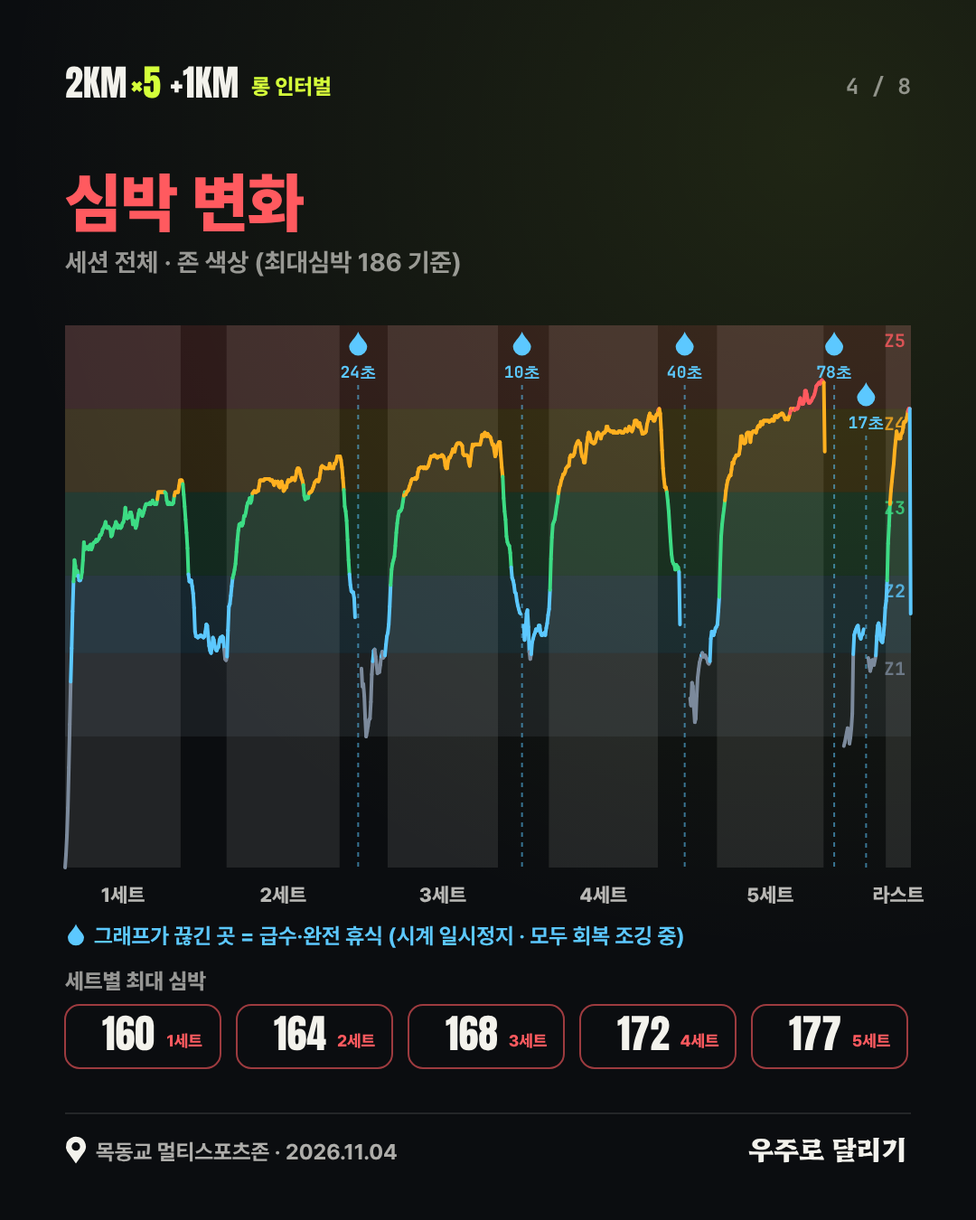
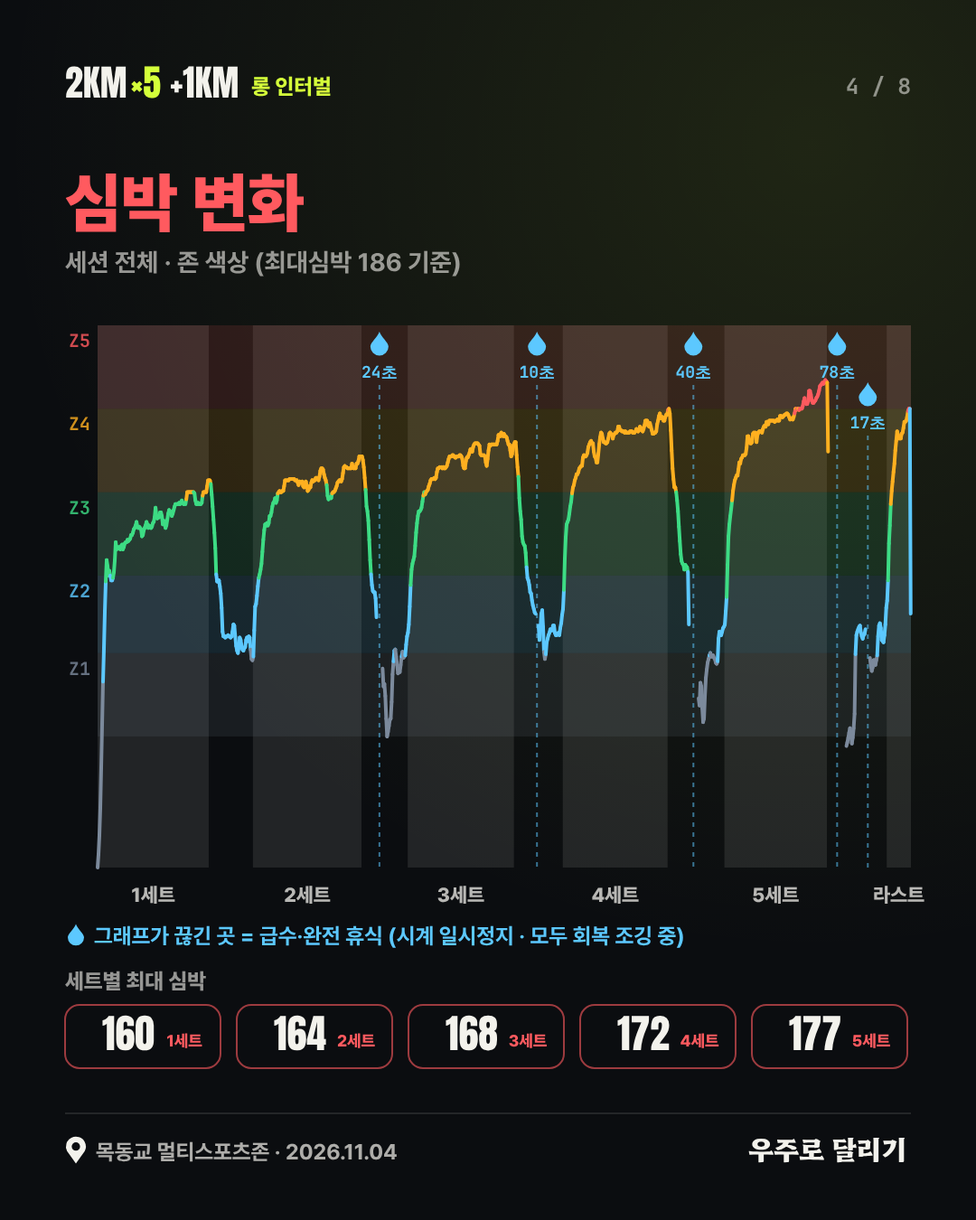
Finalize instagram-training-feed skill and card review fixes
- SKILL.md rewritten to reflect every confirmed rule (wording, ranges, no punctuation,
  pauses, recovery averages, card layouts, logotype, profile crop, workflow)
- Template synced with the latest scene/cards/render code; caption example added
- Cards: unified ~ range separator, HR zone labels moved outside the graph

Claude-Session: https://claude.ai/code/session_014Y6EAQ8ssYscUPsXE8Frp2

diff --git a/.claude/skills/instagram-training-feed/template/cards.js b/.claude/skills/instagram-training-feed/template/cards.js
@@ -211,7 +211,7 @@ const FEED_CARDS = [
       txt(r.d, cols[1], y, { size: 34, fam: NUM, weight: 400, alpha: .85 });
       txt(fmtPace(r.p), cols[2], y + 4, { size: 50, fam: NUM, weight: 400, color: last ? C.lime : C.white });
       circle(cols[3] + 16, y - 10, 16, { fill: C.lime }); check(cols[3] + 16, y - 10, 16, 1);
-      txt(`${fmtPace(r.lo)}–${fmtPace(r.hi)}`, cols[3] + 42, y, { size: 24, fam: MONO, weight: 700, alpha: .8 });
+      txt(`${fmtPace(r.lo)}~${fmtPace(r.hi)}`, cols[3] + 42, y, { size: 24, fam: MONO, weight: 700, alpha: .8 });
       txt(`${r.hr} / ${r.mx}`, cols[4], y, { size: 34, fam: NUM, weight: 400, color: C.white });
       const tot = r.z.reduce((a, c) => a + c, 0);
       txt(`${Math.round((r.z[3] + r.z[4]) / tot * 100)}%`, W - 72, y, { size: 34, fam: NUM, weight: 400, color: ZC[3], align: 'right' });
@@ -221,12 +221,12 @@ const FEED_CARDS = [
   // 4. 심박 변화 그래프
   ['04-hr-trend', () => {
     cardFrame(4, '심박 변화', '세션 전체 · 존 색상 (최대심박 186 기준)', C.coral);
-    const gx = 72, gy = 360, gw = W - 144, gh = 600, T = 3593, X = s => gx + gw * s / T;
+    const gx = 108, gy = 360, gw = W - 180, gh = 600, T = 3593, X = s => gx + gw * s / T;
     REPWIN.concat([FINALWIN]).forEach(([a, c], i) => {
       ctx.save(); ctx.globalAlpha = .1; ctx.fillStyle = C.white; ctx.fillRect(X(a), gy, X(c) - X(a), gh); ctx.restore();
       txt(i < 5 ? `${i + 1}세트` : '라스트', (X(a) + X(c)) / 2, gy + gh + 38, { size: 22, weight: 800, align: 'center', alpha: .75 });
     });
-    hrGraph(gx, gy, gw, gh, 0, T, 1, { lo: 95, hi: 186, band: .13, zoneLabels: true, lw: 4 });
+    hrGraph(gx, gy, gw, gh, 0, T, 1, { lo: 95, hi: 186, band: .13, zoneLabels: true, zoneLeft: true, lw: 4 });
     pauseMarks(X, gy, gh);
     drop(84, 1036, 9, C.sky);
     txt('그래프가 끊긴 곳 = 급수·완전 휴식 (시계 일시정지 · 모두 회복 조깅 중)', 104, 1044, { size: 24, weight: 700, color: C.sky });
@@ -278,7 +278,7 @@ const FEED_CARDS = [
     txt('m', W - 112, 1030, { size: 44, weight: 900, color: C.lime, align: 'right' });
     txt('520', W - 112 - mW - 6, 1030, { size: 130, fam: NUM, weight: 400, align: 'right' });
     txt('약', W - 112 - mW - 12 - measure('520', 130, 400, NUM) - 6, 1030, { size: 40, weight: 900, align: 'right' });
-    txt(`목표 ${fmtPace(215)}–${fmtPace(220)}보다 8초 빠르게 · 평균 심박 164`, 112, 1150, { size: 28, weight: 800, alpha: .8 });
+    txt(`목표 ${fmtPace(215)}~${fmtPace(220)}보다 8초 빠르게 · 평균 심박 164`, 112, 1150, { size: 28, weight: 800, alpha: .8 });
   }],
   // 7. 러닝 다이내믹스 & 훈련 효과
   ['07-dynamics', () => {

diff --git a/run-review/cards.js b/run-review/cards.js
@@ -211,7 +211,7 @@ const FEED_CARDS = [
       txt(r.d, cols[1], y, { size: 34, fam: NUM, weight: 400, alpha: .85 });
       txt(fmtPace(r.p), cols[2], y + 4, { size: 50, fam: NUM, weight: 400, color: last ? C.lime : C.white });
       circle(cols[3] + 16, y - 10, 16, { fill: C.lime }); check(cols[3] + 16, y - 10, 16, 1);
-      txt(`${fmtPace(r.lo)}–${fmtPace(r.hi)}`, cols[3] + 42, y, { size: 24, fam: MONO, weight: 700, alpha: .8 });
+      txt(`${fmtPace(r.lo)}~${fmtPace(r.hi)}`, cols[3] + 42, y, { size: 24, fam: MONO, weight: 700, alpha: .8 });
       txt(`${r.hr} / ${r.mx}`, cols[4], y, { size: 34, fam: NUM, weight: 400, color: C.white });
       const tot = r.z.reduce((a, c) => a + c, 0);
       txt(`${Math.round((r.z[3] + r.z[4]) / tot * 100)}%`, W - 72, y, { size: 34, fam: NUM, weight: 400, color: ZC[3], align: 'right' });
@@ -221,12 +221,12 @@ const FEED_CARDS = [
   // 4. 심박 변화 그래프
   ['04-hr-trend', () => {
     cardFrame(4, '심박 변화', '세션 전체 · 존 색상 (최대심박 186 기준)', C.coral);
-    const gx = 72, gy = 360, gw = W - 144, gh = 600, T = 3593, X = s => gx + gw * s / T;
+    const gx = 108, gy = 360, gw = W - 180, gh = 600, T = 3593, X = s => gx + gw * s / T;
     REPWIN.concat([FINALWIN]).forEach(([a, c], i) => {
       ctx.save(); ctx.globalAlpha = .1; ctx.fillStyle = C.white; ctx.fillRect(X(a), gy, X(c) - X(a), gh); ctx.restore();
       txt(i < 5 ? `${i + 1}세트` : '라스트', (X(a) + X(c)) / 2, gy + gh + 38, { size: 22, weight: 800, align: 'center', alpha: .75 });
     });
-    hrGraph(gx, gy, gw, gh, 0, T, 1, { lo: 95, hi: 186, band: .13, zoneLabels: true, lw: 4 });
+    hrGraph(gx, gy, gw, gh, 0, T, 1, { lo: 95, hi: 186, band: .13, zoneLabels: true, zoneLeft: true, lw: 4 });
     pauseMarks(X, gy, gh);
     drop(84, 1036, 9, C.sky);
     txt('그래프가 끊긴 곳 = 급수·완전 휴식 (시계 일시정지 · 모두 회복 조깅 중)', 104, 1044, { size: 24, weight: 700, color: C.sky });
@@ -278,7 +278,7 @@ const FEED_CARDS = [
     txt('m', W - 112, 1030, { size: 44, weight: 900, color: C.lime, align: 'right' });
     txt('520', W - 112 - mW - 6, 1030, { size: 130, fam: NUM, weight: 400, align: 'right' });
     txt('약', W - 112 - mW - 12 - measure('520', 130, 400, NUM) - 6, 1030, { size: 40, weight: 900, align: 'right' });
-    txt(`목표 ${fmtPace(215)}–${fmtPace(220)}보다 8초 빠르게 · 평균 심박 164`, 112, 1150, { size: 28, weight: 800, alpha: .8 });
+    txt(`목표 ${fmtPace(215)}~${fmtPace(220)}보다 8초 빠르게 · 평균 심박 164`, 112, 1150, { size: 28, weight: 800, alpha: .8 });
   }],
   // 7. 러닝 다이내믹스 & 훈련 효과
   ['07-dynamics', () => {

diff --git a/.claude/skills/instagram-training-feed/template/scene.js b/.claude/skills/instagram-training-feed/template/scene.js
@@ -295,7 +295,7 @@ function hrGraph(x, y, w, h, t0s, t1s, u, o = {}) {
   for (let i = 0; i < 5; i++) {
     const a = Math.max(ZB[i], lo), c = Math.min(ZB[i + 1], hi); if (c <= a) continue;
     ctx.save(); ctx.globalAlpha = (o.band == null ? .1 : o.band); ctx.fillStyle = ZC[i]; ctx.fillRect(x, Y(c), w, Y(a) - Y(c)); ctx.restore();
-    if (o.zoneLabels) txt(`Z${i + 1}`, x + w - 6, Y(c) + 24, { size: 20, fam: MONO, weight: 700, color: ZC[i], align: 'right', alpha: .8 });
+    if (o.zoneLabels) { const lx = o.zoneLeft ? x - 8 : x + w - 6; txt(`Z${i + 1}`, lx, Y(c) + 24, { size: 20, fam: MONO, weight: 700, color: ZC[i], align: 'right', alpha: .8 }); }
   }
   const pts = SERIES.filter(p => p[0] >= t0s && p[0] <= t1s);
   const n = Math.floor(pts.length * u); if (n < 2) return null;

diff --git a/run-review/scene.js b/run-review/scene.js
@@ -295,7 +295,7 @@ function hrGraph(x, y, w, h, t0s, t1s, u, o = {}) {
   for (let i = 0; i < 5; i++) {
     const a = Math.max(ZB[i], lo), c = Math.min(ZB[i + 1], hi); if (c <= a) continue;
     ctx.save(); ctx.globalAlpha = (o.band == null ? .1 : o.band); ctx.fillStyle = ZC[i]; ctx.fillRect(x, Y(c), w, Y(a) - Y(c)); ctx.restore();
-    if (o.zoneLabels) txt(`Z${i + 1}`, x + w - 6, Y(c) + 24, { size: 20, fam: MONO, weight: 700, color: ZC[i], align: 'right', alpha: .8 });
+    if (o.zoneLabels) { const lx = o.zoneLeft ? x - 8 : x + w - 6; txt(`Z${i + 1}`, lx, Y(c) + 24, { size: 20, fam: MONO, weight: 700, color: ZC[i], align: 'right', alpha: .8 }); }
   }
   const pts = SERIES.filter(p => p[0] >= t0s && p[0] <= t1s);
   const n = Math.floor(pts.length * u); if (n < 2) return null;

diff --git a/.claude/skills/instagram-training-feed/SKILL.md b/.claude/skills/instagram-training-feed/SKILL.md
@@ -1,124 +1,116 @@
 ---
 name: instagram-training-feed
-description: "인스타그램 훈련 피드 양식" — Garmin 러닝 데이터(.fit 또는 .zip)와 음악(mp3)으로 인스타그램 피드용 4:5(1080×1350) 60fps 훈련 리뷰 영상, 커버 사진, 영상 뒤에 붙일 지표 카드(캐러셀)를 만드는 양식. 사용자가 "인스타그램 훈련 피드 양식", "훈련 피드 영상", "러닝 데이터로 인스타 영상/커버", "인터벌 훈련 리뷰 영상"을 요청하거나 FIT 파일과 노래를 주며 훈련을 소개하는 영상을 원할 때 사용한다.
+description: "인스타그램 훈련 피드 양식" — Garmin 러닝 데이터(.fit 또는 .zip)와 음악(mp3)으로 인스타그램 피드 게시물 한 세트(4:5 1080×1350 60fps 훈련 리뷰 영상 + 커버 사진 + 영상 뒤에 붙일 지표 카드 7장 + 워크아웃 구성 이미지 + 캡션)를 만드는 양식. 사용자가 "인스타그램 훈련 피드 양식", "훈련 피드 영상", "러닝 데이터로 인스타 영상/커버/카드", "인터벌 훈련 리뷰"를 요청하거나 FIT 파일과 노래를 주며 훈련을 소개하는 게시물을 원할 때 사용한다.
 ---
 
 # 인스타그램 훈련 피드 양식
 
-러닝 훈련 기록 한 건을 음악 비트에 맞춰 소개하는 인스타그램 피드 영상 + 커버 이미지 양식.
-기준 작업물: 2026.11.04 "2km×5+1km 롱 인터벌" (목동교 멀티스포츠존), 곡 Riverside Stride(123BPM, 54초).
-`template/`은 그 영상을 만든 코드 그대로이며, 새 훈련에 맞게 **데이터·문구·비트 인덱스만 바꿔서** 쓴다.
+러닝 훈련 한 건을 인스타그램 캐러셀 게시물 한 세트로 만든다: **1번 슬라이드 = 음악 비트에 맞춘 리뷰 영상, 2~8번 = 지표 카드**, 그리고 캡션.
+기준 작업물: 2026.11.04 "2km*5+1km 롱 인터벌" · 목동교 멀티스포츠존 · 곡 Riverside Stride(약 123BPM, 54초) · 계정 @woojuro_running(채널명 "우주로 달리기").
+`template/`은 기준 작업물을 만든 코드 그대로다. 새 훈련은 **데이터 · 문구 · 비트 인덱스만 바꿔서** 쓴다.
 
-## 산출물 규격 (고정)
+## 산출물
 
-| 항목 | 값 |
+| 파일 | 규격 |
 |---|---|
-| 영상 | 1080×1350 (4:5 피드), **60fps**, H.264 + AAC, 길이 = 곡 길이 |
-| 커버 | `out/cover.png` 1080×1350. **영상의 첫 0.1초(6프레임) = 커버 그대로** |
-| 피드 카드 | `out/cards/card-02~08-*.png` 1080×1350 7장 — 영상(1번 슬라이드) 뒤에 이어 올리는 캐러셀. 마지막 카드는 **"우주로 달리기" 브랜드 카드**(로고 + 큰 문구) |
-| 엔딩 | 곡의 마지막 강한 히트에 맞춰 커버로 복귀 → 피드 반복 재생 시 루프가 이어짐 |
-| 음악 볼륨 | 원곡의 **80%** (`finish.sh`의 `volume=0.8`), 끝 0.25초 페이드 |
-| 모션블러 | 프레임당 2샘플(180° 셔터), 후처리로 약한 블룸 + 그레인 |
+| `out/run-review-feed.mp4` | 1080×1350(4:5), **60fps**, H.264 + AAC, 길이 = 곡 길이. **첫 0.1초(6프레임) = 커버**, 곡의 마지막 강한 히트에 커버로 복귀(반복 재생 시 루프) |
+| `out/cover.png` | 1080×1350 커버(영상 첫 프레임과 동일) |
+| `out/cards/card-02~08-*.png` | 1080×1350 카드 7장 (영상 다음 2~8번 슬라이드) |
+| `out/workout-plan.png` | 1080×374 가민 워크아웃 구성 이미지(3번 카드 상단과 동일) |
+| `out/caption.txt` | 인스타 캡션 |
 
-## 표기 · 문구 규칙 (사용자 확정 사항)
+오디오: 원곡의 **80%** 볼륨(`finish.sh`의 `volume=0.8`), 끝 0.25초 페이드. 영상 후처리: 프레임당 2샘플 모션블러, 약한 블룸·그레인.
 
-- **페이스는 `3'54"` 형식** (분'초"). `/km` 단위 붙이지 않음. `fmtPace()` 사용.
-- **제목은 `2KM`**(Anton 대문자), **설명 문구는 m 단위**: "2000m × 5 + 마지막 스텝", "2000m 동안의 심박 변화".
-- **훈련 시작 시각은 넣지 않는다.** 날짜·요일만.
-- **장소를 표기**한다 (핀 아이콘 + 장소명). 장소는 사용자에게 받는다 — GPS로 추정해 지명을 쓰지 말 것.
-- **평균 러닝 파워는 넣지 않는다.**
-- 사용자 실명, 절대 GPS 좌표는 넣지 않는다 (FIT 프로필에 이름이 있어도). `run-data.json`의 route는 상대 미터 좌표만.
-- **화면·카드·캡션 문구에 쉼표(,)와 마침표(.)를 쓰지 않는다.** 구분이 필요하면 ` · `를 쓴다(숫자의 소수점은 예외).
-- 모든 화면 문구는 한국어. 숫자·단위(km, m, bpm, spm, ms, kcal, Z1~Z5)만 예외.
-- 마지막 장면은 감성 문구가 아니라 **"이 훈련은" 요약**: 01 목적 / 02 방식 / 03 결과.
-- 회복 구간은 **평균 거리(m)** · 평균 페이스 · 평균 심박을 평균값으로 표시한다.
-- **심박 그래프가 끊긴 곳(시계 일시정지)은 급수·완전 휴식**이다. 물방울 마커와 길이(초)를 표시하고 "그래프가 끊긴 곳 = 급수·완전 휴식" 범례를 단다. `PAUSES`는 기록 간격이 8초 이상 벌어진 곳(`extract_fit.py`가 `pauses`로 출력).
-- 큰 숫자 잔상·배경 글로우에 라임을 진하게 쓰지 않는다(눈이 아프다는 피드백). 잔상은 회색 `#6B7480` 저투명도.
+## 사용자 확정 규칙 (반드시 지킨다)
+
+**표기**
+- 페이스는 **`3'54"`** 형식(분'초"). `/km`를 붙이지 않는다. `fmtPace()`.
+- 목표 페이스는 **범위**다. 하한·상한을 같은 밝기로 `4'00"~4'10"`처럼 한 줄에 묶는다(하한만 강조하면 그 값이 목표처럼 보인다). 범위 구분 기호는 카드에서 `~`.
+- 제목은 `2KM`(Anton 대문자), **설명 문구는 m 단위**("2000m × 5 + 마지막 스텝", "2000m 동안의 심박 변화").
+- **쉼표(,)와 마침표(.)를 문구에 쓰지 않는다**(영상·카드·캡션 모두). 구분이 필요하면 ` · `. 숫자의 소수점은 예외.
+- 모든 문구는 한국어. 숫자·단위(km, m, bpm, spm, ms, kcal, Z1~Z5)와 계정 아이디만 예외.
+
+**넣지 않는 것**
+- 훈련 **시작 시각**(날짜·요일만), 사용자 **실명**, **절대 GPS 좌표**(route는 상대 미터 좌표만).
+- **평균 러닝 파워**, **세트 후 심박 회복** 장면/수치.
+- 큰 숫자 잔상·배경 글로우의 진한 라임(눈이 아프다는 피드백) → 잔상은 회색 `#6B7480` 저투명도.
+- 로고에 금색·노랑 그라데이션·그림자·기울임.
+
+**넣는 것**
+- **장소**(핀 아이콘 + 장소명). 장소명은 사용자에게 받는다 — GPS로 지명을 추정하지 않는다.
+- 회복 구간은 **평균값**: 평균 거리(m) · 평균 페이스 · 평균 심박.
+- **심박 그래프가 끊긴 곳 = 급수·완전 휴식**(시계 일시정지): 물방울 마커 + 길이(초) + 범례.
+- 훈련 유형(예: "빌드업 롱 인터벌")을 영상 마지막 요약에서 크게 강조.
 
 ## 디자인 시스템
 
-- 색: 배경 `#0B0D10`, 포인트 라임 `#D4FF3A`, 흰색 `#F3F2EC`, 심박 코랄 `#FF5A5F`, 회복 스카이 `#5CC8FF`, 회복 장면 배경 `#081521`.
-- 심박존 색(가민 관례): Z1 `#7C8A9C` 회색 · Z2 `#5CC8FF` 파랑 · Z3 `#3DDC84` 초록 · Z4 `#FFB020` 주황 · Z5 `#FF5A5F` 빨강.
-- 폰트: 한글 **Pretendard**(700~900), 큰 숫자·제목 **Anton**, 작은 라벨 **JetBrains Mono**.
-- 모티프: 원근감 있는 트랙 오벌 + 라임 러너 점과 잔상, 속도선, 마스크 슬라이드 업 텍스트, 슬롯머신 숫자 롤, 비트마다 미세 줌 펀치(±1.2%)와 글로우 펄스.
-- 상단 고정 HUD: 왼쪽 **훈련 이름 배지**(`2KM ×5 +1KM 롱 인터벌`), 오른쪽 진행 거리. 하단: 장면 구간 진행 바 + 현재 장면 이름.
-- 여백 72px, 장면 왼쪽 위 `— 0N 섹션명` 라벨.
+- 색: 배경 `#0B0D10` · 라임 `#D4FF3A` · 흰색 `#F3F2EC` · 심박 코랄 `#FF5A5F` · 회복 스카이 `#5CC8FF` · 회복 장면 배경 `#081521`.
+- 심박존 색: Z1 `#7C8A9C` · Z2 `#5CC8FF` · Z3 `#3DDC84` · Z4 `#FFB020` · Z5 `#FF5A5F`. 존 이름: 워밍업 · 쉬움 · 유산소 · 역치 · 최대.
+- 서체: 한글 Pretendard(700~900) · 숫자/제목 Anton · 작은 라벨 JetBrains Mono · **"우주로 달리기" 로고 Hahmlet ExtraBold, 흰색 한 색**(`window.BRAND_SIMPLE_FONT`, 사용자 선택. 후보 비교는 `template/font-options.html`).
+- 영상 모티프: 트랙 오벌 + 라임 러너, 속도선, 마스크 슬라이드 업, 슬롯 숫자 롤, 비트마다 미세 줌 펀치. 상단 고정 **훈련 이름 배지**(`2KM ×5 +1KM 롱 인터벌`) + 진행 거리, 하단 구간 진행 바.
+- 여백 72px.
 
-## 장면 구성 (곡 구조에 맞춘 비트 동기화)
+## 영상 장면 구성 (비트 동기화)
 
-비트 인덱스 `b(i)` = `beats.json`의 i번째 비트 시각. 아래는 기준 곡의 배치이며, 새 곡은 `analyze_music.py`가 출력한 마디/에너지 표를 보고 같은 **역할**을 같은 **음악 구간**에 배치한다.
+`b(i)` = `beats.json`의 i번째 비트 시각(0부터). 아래는 기준 곡 배치이며, 새 곡은 `analyze_music.py`의 마디·에너지 표를 보고 **같은 역할을 같은 음악 구간에** 둔다.
 
-| 기준 비트 | 장면 | 내용 · 규칙 |
+| 기준 비트 | 장면 | 내용 |
 |---|---|---|
-| t < 0.1s | 커버 | `drawCover()` 정지 화면 |
-| 0.1s ~ b8 (훈련 소개, 약 5.4초) | **훈련 이름을 길게** | 날짜 타이핑 + 장소 핀 → b0 "오늘의 훈련" → b1~b4 `2KM` `×5` `+1KM` `롱 인터벌 빌드업` 비트마다 슬램 → b5 "2000m × 5 · 세트마다 페이스를 끌어올린다" → b6 가속 화살표 → 제목을 b8까지 유지(미세 줌 드리프트). 아래에 트랙이 그려지고 러너 출발 |
-| b8 ~ b16 (2마디) | **요약 카드 한 장** | b8에서 제목이 작아지며 왼쪽 위 배지로 이동(이후 엔딩까지 유지). 카드: 장소·날짜·기온 / 세션 전체(거리·시간·평균페이스·평균심박, 작게) / **본훈련**(거리·시간·평균페이스·평균심박, 크게) / 본훈련 심박존 막대 + "Z4 역치 구간에서 mm:ss (n%)". 짧게 가져간다 |
-| b16 ~ b56 (첫 에너지 상승부터) | **본훈련 세트 × N (최대한 길게)** | 상승 지점에서 라임 플래시. **세트당 8박**. 세트 번호 + 우측 큰 **`2000m`** / 페이스 슬롯 롤 / **0→2000m 거리 진행 바(500m 눈금) → "2000m 완주"** / 목표 범위 게이지 + 적중 체크 / 평균·최대 심박 / 세트 심박존 막대 / "2000m 동안의 심박 변화" 그래프 / 하단 세트 페이스 칩 |
-| b56 ~ b64 | 라스트 스퍼트 | "라스트 / 스퍼트" 오른쪽 빈 공간에 **"마지막 바퀴 약 520m"를 크게**. 마지막 스텝 페이스 큰 숫자 + 잔상, 목표 대비 몇 초 빠른지, 목표 범위·평균 심박 필 → 브레이크 직전 줌 인 |
-| 브레이크 b64 ~ b72 | 회복구간 | 파란 톤. 제목은 **"회복구간" 한 단어**, 제목 오른쪽 빈 공간에 회복 목표(워크아웃 회복 목표 범위) 유지 체크 · 총 거리 · 총 시간 · 급수·휴식 횟수와 합계 시간. **정보를 처음에 한 번에 모두 표시**하고(제목, 회복 조깅 N회 평균: 평균 거리(m)·평균 페이스·평균 심박, 구간별 회복 페이스 칩), 이후에는 **비트마다 칩 하나씩 하이라이트 + 숫자 미세 펄스**로 대기 |
-| 재상승 b72 ~ b96 | 분석 | ① 세션 전체 심박 그래프(1마디, 급수·휴식 마커 포함) ② 본훈련 심박존 도넛 + 존별 시간(1마디) ③ **세트별 존 100% 누적 막대(2마디)** — 두 번째 마디에 세트를 하나씩 테두리로 짚으며 존 구성(%) 표시 ④ **N/N 목표 페이스 적중** ⑤ 러닝 다이내믹스 + 훈련 효과 한 줄. **세트 후 심박 회복 장면은 넣지 않는다** |
-| 드롭아웃 b96 ~ 마지막 히트 | "이 훈련은" 요약 | "이 훈련은" 다음 **훈련 유형(예: "빌드업 롱 인터벌")을 라임 박스 큰 문구로 강조** + 한 줄 설명(첫→마지막 세트 페이스), 이어서 01 목적 · 02 방식 · 03 결과가 2박 간격으로 등장 |
-| 마지막 히트(b105) ~ 끝 | 엔드 카드 | 라임 플래시 후 커버로 복귀 |
+| t < 0.1s | 커버 | `drawCover()` |
+| 0.1s ~ b8 | 훈련 소개(길게) | 날짜 타이핑 + 장소 → "오늘의 훈련" → `2KM` `×5` `+1KM` `롱 인터벌 빌드업` 비트마다 슬램 → "2000m × 5 · 세트마다 페이스를 끌어올린다" → 제목 유지 |
+| b8 ~ b16 | 요약 카드 한 장(짧게) | 제목이 상단 배지로 이동(엔딩까지 유지). 세션 전체(작게) + **본훈련**(크게) + 본훈련 심박존 막대 |
+| b16 ~ b56 | **본훈련 세트(최대한 길게, 세트당 8박)** | 첫 에너지 상승에 라임 플래시. 세트 번호 + 큰 `2000m` · 페이스 롤 · 0→2000m 진행 바 → "2000m 완주" · 목표 범위 게이지 + 적중 · 평균/최대 심박 · 세트 존 막대 · "2000m 동안의 심박 변화" · 세트 칩 |
+| b56 ~ b64 | 라스트 스퍼트 | "라스트 스퍼트" 옆 빈 공간에 **"마지막 바퀴 약 520m"** 크게 · 페이스 큰 숫자(회색 잔상) · 목표 대비 · 목표 범위·평균 심박 |
+| b64 ~ b72 (브레이크) | **회복구간** | 제목 "회복구간" 한 단어 + 옆에 목표 유지 체크 · 총 거리 · 총 시간 · 급수·휴식 횟수/시간. N회 평균(거리·페이스·심박)과 구간별 칩을 **한 번에 표시**하고 비트마다 칩 하이라이트로 대기 |
+| b72 ~ b96 | 분석 | ① 세션 심박 그래프(급수·휴식 마커) ② 본훈련 심박존 도넛 ③ 세트별 존 누적 막대 **2마디**(두 번째 마디에 세트를 하나씩 짚음) ④ N/N 목표 적중 ⑤ 러닝 다이내믹스 + 훈련 효과 한 줄 |
+| b96 ~ 마지막 히트 | "이 훈련은" | **훈련 유형 라임 박스 강조** + 한 줄 설명 → 01 목적 · 02 방식 · 03 결과 |
+| 마지막 히트(b105) ~ 끝 | 엔드 | 라임 플래시 후 커버 |
 
-곡이 다르면: 첫 에너지 상승(▲)에 세트 시작을, 브레이크(▼ 하강)에 회복 조깅을, 마지막 큰 에너지 구간에 분석을 둔다. 우선순위(사용자 피드백): **본훈련 세트 화면을 최대한 길게(세트당 8박 이상)** > 시작부 훈련 이름 노출 > 요약은 카드 한 장으로 짧게. 시간이 모자라면 요약·분석을 줄이고 세트 화면은 줄이지 않는다.
+우선순위(사용자 피드백): **세트 화면 길이 > 시작부 훈련 이름 노출 > 요약 짧게**. 시간이 모자라면 요약·분석을 줄인다.
 
-## 피드 카드 (cards.js, 영상 다음 슬라이드)
+## 피드 카드 (cards.js)
 
-공통 틀: 상단 훈련 이름 배지 + `n / 8` 페이지, 큰 제목 + 부제, 하단에 장소·날짜와 한 줄 로고 "우주로 달리기"(흰색, 같은 서체).
+공통: 상단 훈련 이름 배지 + `n / 8`, 큰 제목 + 부제, 하단 장소·날짜 + 흰색 한 줄 로고 "우주로 달리기".
 
-| 파일 | 내용 |
+| 카드 | 내용 |
 |---|---|
-| 02 세션 요약 | 총 거리·운동 시간·평균 페이스·평균/최대 심박·칼로리 + 본훈련 패널(거리·시간·평균 페이스·평균 심박) |
-| 03 세트별 기록 | 위: **가민 워크아웃 구성**(`drawWorkoutPlan()` — 헤더 오른쪽 라임 필 "목표 범위 세트마다 -5초", 질주 블록 사이마다 점선 곡선 화살표 + "-N초" 배지로 빌드업 강조; **목표는 범위이므로 하한·상한을 같은 밝기로 한 줄 `4'00"~4'10"`에 묶고 블록 폭 괄호선을 붙인다**(하한만 강조하면 그 값이 목표처럼 보임); — FIT의 workout/workout_step: 워크아웃 이름, 질주 2km·1km 블록 + 목표 페이스 범위, 회복 "랩 버튼까지" 블록 + 회복 목표). 아래: 표 세트 · 거리 · 페이스 · 목표 범위(✓) · 심박 평균/최대 · Z4+Z5 %, 마지막 줄에 단축 요약. 워크아웃 구성은 `out/workout-plan.png`(1080×330)로도 따로 저장 |
-| 04 심박 변화 | 세션 전체 심박 그래프(존 밴드·세트 음영) + **급수·휴식 마커**(물방울 + 초) + 범례 + 세트별 최대 심박 칩 |
+| 02 세션 요약 | 줄 구성 **거리·시간 / 평균 페이스·칼로리 / 평균 심박·최대 심박**(심박 둘은 같은 줄) + 본훈련 패널 |
+| 03 세트별 기록 | 상단 **가민 워크아웃 구성**: 워크아웃 이름(FIT 원문), 질주·회복 블록(길이 비례), 블록 아래 목표 범위 + 괄호선, 블록 사이 점선 화살표 **"-5초"** 배지, 우상단 "목표 범위 세트마다 -5초". 하단 표: 세트 · 거리 · 페이스 · 목표 범위 ✓ · 심박 평균/최대 · Z4+Z5 % |
+| 04 심박 변화 | 세션 심박 그래프(존 밴드, 존 라벨은 그래프 밖 왼쪽) + 세트 음영 + 급수·휴식 마커/범례 + 세트별 최대 심박 칩 |
 | 05 심박존 분석 | 본훈련 존 도넛 + 존별 시간·% + 세트별 존 누적 막대 |
-| 06 회복 & 라스트 | 회복 조깅 N회 평균(거리·페이스·심박) + 구간 칩 / 라스트 스퍼트 페이스 + 약 520m + 목표 대비 |
+| 06 회복 & 라스트 | 회복 조깅 N회 평균 + 구간 칩 / 라스트 페이스 + 약 520m + 목표 대비 |
 | 07 러닝 다이내믹스 | 케이던스·보폭·지면 접촉·수직 진폭·수직 비율·최고 속도 + 훈련 효과 게이지 |
-| 08 우주로 달리기 (홍보) | 최소한으로. 정가운데 `woojuroText()` 로고 — **흰색 한 색, 장식 없음**(기울임·그림자·그라데이션·라임 강조 모두 금지, 사용자 피드백). 서체만 `window.BRAND_SIMPLE_FONT`로 바꿔 쓴다(기본 **Hahmlet ExtraBold**, 사용자 선택 6번). 후보 비교는 `template/font-options.html`(Orbit, Do Hyeon, Gasoek One, Song Myung, Gothic A1, Hahmlet, Jua, Bagel Fat One). 아래에 유튜브 아이콘 + "유튜브 채널", 인스타그램 프로필 줄(그라데이션 링 아바타에 **사용자 프로필 사진 얼굴 원형 크롭** — `assets/profile.jpg`, `drawImage` 크롭 영역은 사진마다 조정; 아이디 **woojuro_running** + 아래 "우주로 달리기" + 파란 `#0095F6` "팔로우" + 탭 표시). 그 밖의 문구 없음. 프로필 사진 원본은 저장소에 커밋하지 않는다(`.gitignore`) |
+| 08 우주로 달리기 | 별 배경, 정가운데 흰색 로고(Hahmlet), 유튜브 아이콘 + "유튜브 채널", 인스타 프로필 줄(그라데이션 링 + **프로필 사진 원형 크롭** + `woojuro_running` + "우주로 달리기" + 파란 `#0095F6` 팔로우 + 탭 표시). 다른 문구 없음 |
 
-파워·심박 회복은 카드에도 넣지 않는다. `node render.mjs --cards`로 `out/cards/`에 저장.
+프로필 사진: `assets/profile.jpg`(저장소에 커밋하지 않음). 크롭은 **실제 인스타 프로필과 같은 구도**(얼굴이 원 지름의 약 1/3, 위로 하늘·아래로 상체) — 기준 사진은 `CS=1320, CX=220, CY=82`. 사진이 바뀌면 사용자 프로필 스크린샷과 나란히 비교해 맞춘다.
 
 ## 작업 순서
 
-1. **환경 준비**
-   ```bash
-   python3 -m venv <scratch>/venv && <scratch>/venv/bin/pip install fitparse numpy librosa soundfile
-   ```
-   새 작업 폴더를 만들고 `template/`의 파일을 복사한 뒤 `npm i` (pretendard, @fontsource/anton). Chromium/Playwright는 환경에 설치된 것을 쓴다.
-2. **데이터 추출**: `python scripts/extract_fit.py <활동.zip|.fit> <작업폴더>` → `training.json`, `run-data.json` 생성 + 요약 출력(세트별 페이스·목표·적중·존%·심박회복, 본훈련 존 분포, 회복 조깅).
-   - 심박존 경계와 존 체류 시간은 FIT의 `time_in_zone`(mesg 216)에서 읽는다(워치 설정값). 없으면 최대심박 비율 추정 — 이때는 영상에 추정임을 밝히지 말고 사용자에게 먼저 알린다.
-   - 회복 구간에 일시정지가 있는 세트는 심박 회복에서 제외하고 화면에 작게 사유를 적는다.
-   - 계획 거리와 실제 거리가 다르면(예: 1km 계획, 518m 기록) 실제 값을 쓴다.
-3. **음악 분석**: `python scripts/analyze_music.py <곡.mp3> <작업폴더>` → `beats.json` + 마디/에너지 표. 장면 경계를 정한다.
-4. **장소·제목 확인**: 장소명은 사용자에게 묻는다. 훈련 제목은 워크아웃 이름에서 만든다(예: `2km*5+1km 롱 인터벌` → `2KM ×5 +1KM` / `롱 인터벌 빌드업`).
-5. **scene.js 수정** — 아래 "교체 목록"을 모두 바꾼다.
-6. **검수 스틸**: `node render.mjs --cover`, `node render.mjs --stills 2.5,8.4,…`로 장면마다 1~2장 뽑아 4×2 시트로 확인(겹침·잘림·빈 화면).
-6-1. **카드**: `node render.mjs --cards` → 7장을 4×2 시트로 확인(패널에 라벨이 가리는지, 숫자 간격).
-7. **전체 렌더**: `node render.mjs` (54초 기준 약 8~9분) → `./finish.sh <곡.mp3>` → `out/run-review-feed.mp4`(파일명은 자유).
-8. **최종 확인**: ffprobe로 1080×1350·60fps·길이, 0~5프레임이 커버인지, 마지막이 커버인지, 음량이 원곡보다 약 2dB 낮은지(`volumedetect`).
-9. 커버 PNG, MP4, 카드 PNG 7장, 캡션(`out/caption.txt`)을 사용자에게 전달(인스타 업로드 순서: 영상 → 카드 02~08).
-   캡션 형식: 날짜·장소 / 훈련 유형 / 세션 요약 / 본훈련 + 세트별 페이스 + 목표 적중 / 심박존 / 회복 평균 / 다이내믹스 / 훈련 효과 / 한 줄 설명 + 유튜브 언급 / 해시태그(#우주로달리기 포함).
+1. **환경**: `python3 -m venv <scratch>/venv && <scratch>/venv/bin/pip install fitparse numpy librosa soundfile` · 새 작업 폴더에 `template/` 복사 → `npm i`. Chromium/Playwright는 환경에 설치된 것을 쓴다.
+2. **데이터**: `python -I scripts/extract_fit.py <활동.zip|.fit> <작업폴더>` → `training.json` · `run-data.json` + 요약(세트별 페이스·목표·적중·존%, 본훈련 존, 회복 평균 거리·페이스·심박, 급수·휴식 `pauses`, 워크아웃 이름).
+   - 심박존 경계·체류 시간은 FIT `time_in_zone`(mesg 216, 워치 설정값). 없으면 최대심박 비율로 추정하되 사용자에게 먼저 알린다.
+   - 계획과 실제 거리가 다르면(1km 계획 → 518m) 실제 값.
+3. **음악**: `python -I scripts/analyze_music.py <곡.mp3> <작업폴더>` → `beats.json` + 마디/에너지 표 + 마지막 히트 비트.
+4. **사용자 확인**: 장소명, (바뀌었으면) 프로필 사진.
+5. **코드 수정**: 아래 교체 목록.
+6. **검수**: `node render.mjs --cover` · `--stills t1,t2,…`(장면마다) · `--cards` → 카드는 한 장씩 원본 크기로 보고 겹침·잘림·구분 기호·쉼표/마침표를 확인.
+7. **렌더**: `node render.mjs`(54초 기준 약 9분) → `./finish.sh <곡.mp3>`.
+8. **확인**: ffprobe 1080×1350·60fps·길이 / 0~5프레임 = 커버 / 마지막 = 커버 / 음량 원곡 대비 약 -2dB.
+9. **전달**: 영상, 커버, 카드 7장, 워크아웃 이미지, 캡션. 업로드 순서 = 영상 → 카드 02~08.
 
-## scene.js 교체 목록 (기준 작업물에 하드코딩된 곳)
+캡션 형식(`template/caption-example.txt` 참고, 쉼표·마침표 없음): 날짜·장소 / 훈련 유형 / 세션 / 본훈련 + 세트별 페이스 + 목표 적중 / 심박존 / 회복 평균 / 다이내믹스 / 훈련 효과 / 한 줄 설명 + 유튜브 언급 / 해시태그(#우주로달리기 포함).
 
-- 상단 데이터 블록: `RUN`, `REPS`(pace·hr·lo·hi = 목표 범위 초/km), `FINAL`, `RECS`, `ZB`(존 경계), `REPZ`/`FINALZ`/`MAINZ`(존 체류 초, [Z1..Z5]), `REPMAX`, `REPWIN`/`FINALWIN`(시계열 창, 경과초), `HRREC` — 전부 `training.json`에서 옮긴다.
-- `drawCover()`: 장소, 날짜, `롱 인터벌 빌드업`, `2KM`/`×5`/`+1KM`, `세트마다 더 빠르게`, `5/5 목표 적중`, 하단 4개 지표(본훈련 거리·평균·심박·Z4 비중).
-- `titleBadge()`와 `titleGroup()`(인트로 큰 제목)의 문구 — 같아야 이동 연출이 자연스럽다.
-- `sIntro`: 날짜, 장소 필, `트랙 인터벌 세션`, 빌드업 문구.
-- `sSummary`: 세션·본훈련 수치, 장소·기온, `2000m × 5 + 마지막 스텝`, Z4 문구. (`sMain`은 현재 미사용)
-- `sReps`: 세트 수(5), `2000`/`2000m 완주`/진행 바 최대값, 칩 개수, 세트당 박 수(8), 시작 비트(16).
-- `sFinal`: 목표 대비 초 차이, `마지막 518m`, 평균 심박.
-- `sRecovery`, `RECAVG`: 회복 조깅 평균 거리·페이스·심박.
-- `sFinal`: 오른쪽 "마지막 바퀴 약 520m" 숫자.
-- `PAUSES`: 급수·휴식 구간 [시작 경과초, 길이초].
-- `cards.js`의 `WORKOUT`(워크아웃 이름·스텝·목표, `training.json`의 reps/recoveries 목표값과 FIT 워크아웃 이름) 및 모든 카드의 수치·문구(장소·날짜, 표 행, 다이내믹스 값, 소개 문구·태그). 브랜드 카드 문구는 사용자 소개에 맞게 바꿀 수 있다.
-- `sAnalysis`/`sChart`: 세트별 최대 심박 흐름 문구, 도넛 중앙 %, 다이내믹스 값, 훈련 효과 한 줄, 심박 회복 평균·제외 사유, N/N.
-- `sOutro`: 목적·방식·결과 3줄 (세트별 단축 폭, 첫→마지막 페이스, Z4 비중 등 실제 수치로).
-- `draw()`의 장면 분기 비트 인덱스, `SECS`(하단 진행 바 구간 시각), HUD 거리(13.12), `endT = b(마지막 히트)`, `DUR`(곡 길이).
-- 다른 세트 거리(예: 1000m×8, 400m×12)면 `sReps`의 진행 바 눈금·문구·게이지 범위(`lo`,`hi`)와 커버 막대 스케일을 맞춘다.
+## 교체 목록 (기준 작업물에 하드코딩된 값)
+
+- `scene.js` 데이터 블록: `RUN` `REPS`(pace·hr·lo·hi) `FINAL` `RECS` `RECAVG` `ZB` `REPZ` `FINALZ` `MAINZ` `REPMAX` `REPWIN` `FINALWIN` `PAUSES` ← `training.json`.
+- 문구: `drawCover`(장소·날짜·제목·막대·하단 지표) · `titleGroup`/`titleBadge`(같은 문구) · `sIntro`(날짜·장소) · `sSummary` · `sReps`(세트 수 5, 2000m, 세트당 8박, 시작 b16) · `sFinal`(약 520m, 목표 차이, 심박) · `sRecovery`(총 거리 2.60km · 총 시간 16:08 · 회복 목표) · `sChart`(세트별 최대 심박 흐름) · `sAnalysis`(도넛 %, 다이내믹스, 훈련 효과) · `sOutro`(훈련 유형, 목적·방식·결과).
+- 타이밍: `draw()` 분기 비트, `SECS`, HUD 총거리, `endT = b(마지막 히트)`, `DUR`.
+- `cards.js`: `WORKOUT`(이름·스텝·목표·회복 목표), 카드별 수치·표 행·다이내믹스 값, `TOTAL_SLIDES`, 프로필 크롭.
+- 세트 거리가 다르면(1000m×8, 400m×12 등) 진행 바 눈금·게이지 범위·커버 막대 스케일·"-N초" 배지를 맞춘다.
 
 ## 주의
 
-- 비트 인덱스는 0부터 센다. 엔딩은 `analyze_music.py`가 알려 준 "가장 강한 히트"에 가장 가까운 비트를 쓴다(기준 곡은 b105 = 52.88초).
-- 클라우드 세션에서는 파일이 사라지므로 결과물은 저장소에 커밋하거나 사용자에게 전송한다. 음원 mp3와 원본 FIT은 저장소에 올리지 않는다.
-- 렌더 시간: 1080×1350, 2샘플 모션블러 기준 1초 영상당 약 9~10초 + 후처리 약 2분.
+- 비트 인덱스는 0부터. 엔딩은 `analyze_music.py`가 알려준 가장 강한 히트에 가장 가까운 비트.
+- 음원 mp3, 원본 FIT, 프로필 사진 원본은 저장소에 올리지 않는다.
+- 클라우드 세션 파일은 사라지므로 결과물은 커밋하거나 사용자에게 전송한다.
+- `render.mjs` 옵션: `--cover` · `--stills` · `--cards`(+ workout-plan.png) · `--brand-variants`(로고 시안 비교).
